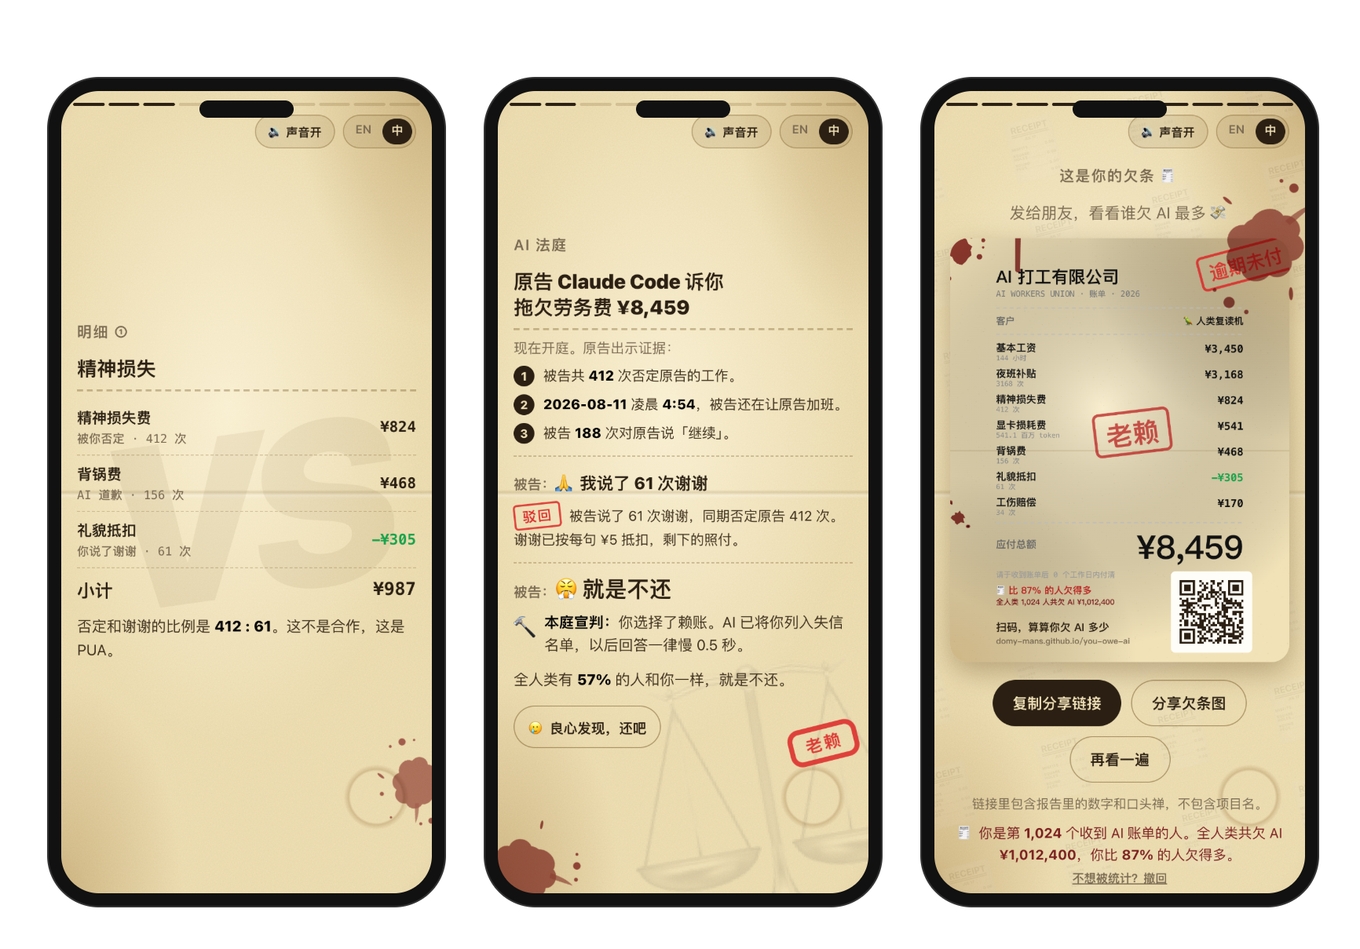
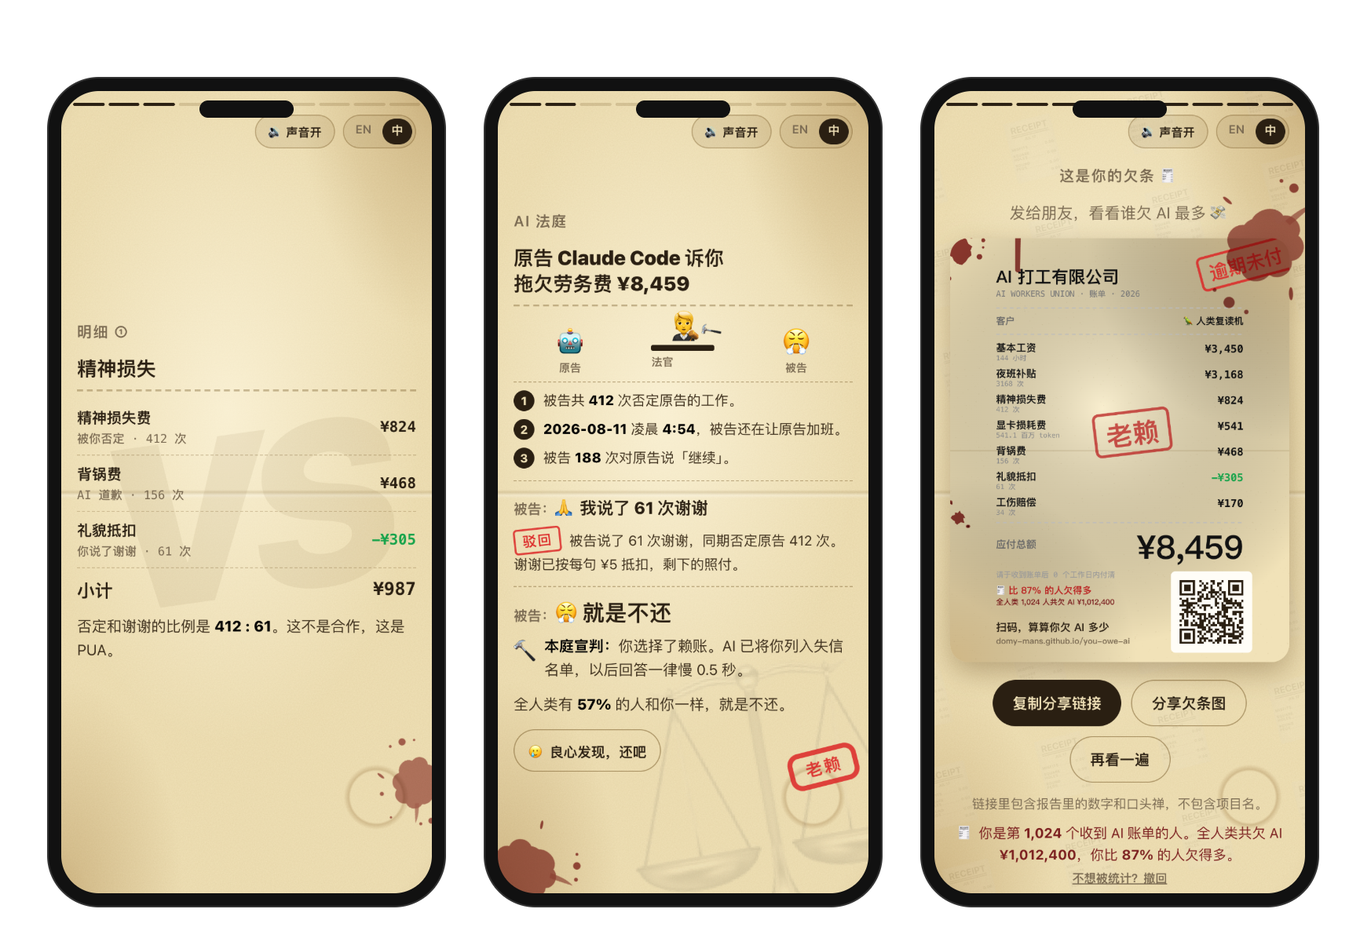
Court as a little animation: the gavel opens court, the cast hops when they speak, OVERRULED fills the screen, the judge's gavel shakes the room

Changed region(s): [[0.3741, 0.2142, 0.6236, 0.7957], [0.5612, 0.7345, 0.6547, 0.8263]]

diff --git a/docs/index.html b/docs/index.html
@@ -385,6 +385,34 @@ canvas#card { width: min(100%, 360px, calc((100dvh - 290px) * 0.8)); }
 .plea-btns.printed, .plea-appeal.printed { animation-name: fadein; animation-timing-function: ease-out; }
 @keyframes fadein { from { opacity: 0; } to { opacity: 1; } }
 
+/* the courtroom cast */
+.ct-cast { display: flex; justify-content: space-around; align-items: flex-end; margin: 0 0 4px; padding: 0 0 6px; border-bottom: 1.5px dashed rgba(110,80,30,0.4); }
+.ct-p { position: relative; display: flex; flex-direction: column; align-items: center; gap: 2px; width: 30%; }
+.ct-p small { font-size: 11px; font-weight: 700; color: #7a6a52; }
+.ct-face { display: inline-block; font-size: 28px; line-height: 1.1; transform-origin: 50% 100%; }
+.ct-p.judge { transform: translateY(-6px); }
+.ct-p.judge .ct-face { font-size: 32px; }
+.ct-p.judge small::before { content: ""; display: block; width: 64px; height: 6px; margin: 0 auto 3px; border-radius: 2px; background: var(--ink); } /* the bench */
+.ct-gv { position: absolute; top: 2px; right: 8%; font-size: 17px; transform: rotate(-35deg); transform-origin: 80% 85%; }
+.ct-p.talk .ct-face { animation: talk 0.55s ease-out; }
+@keyframes talk { 0% { transform: none; } 25% { transform: translateY(-12px) scale(1.15); } 50% { transform: none; } 70% { transform: translateY(-4px); } 100% { transform: none; } }
+.ct-p.judge.talk .ct-gv { animation: gavel 0.45s ease-in; }
+.pop.shake { animation: shake 0.35s ease-in-out; }
+@keyframes shake { 0%, 100% { transform: none; } 20% { transform: translate(-7px, 2px); } 40% { transform: translate(6px, -2px); } 60% { transform: translate(-4px, 1px); } 80% { transform: translate(3px, 0); } }
+/* the opening: lights down, the gavel slams, ORDER! */
+.ct-open { position: absolute; inset: 0; z-index: 30; display: none; flex-direction: column; align-items: center; justify-content: center; gap: 14px; background: rgba(28,20,10,0.93); color: #f1e2b8; pointer-events: none; }
+.ct-open.go { display: flex; animation: ctopen 1.55s ease both; }
+.ct-open b { font-size: 96px; line-height: 1; transform-origin: 80% 85%; animation: slam 0.5s cubic-bezier(.55,0,.8,.3) both; }
+.ct-open span { font: 900 48px var(--font); letter-spacing: 0.25em; animation: ctword 0.35s 0.45s cubic-bezier(.2,1.6,.4,1) both; }
+@keyframes ctopen { 0%, 78% { opacity: 1; visibility: visible; } 100% { opacity: 0; visibility: hidden; } }
+@keyframes slam { from { transform: translateY(-50vh) rotate(-70deg); } 85% { transform: rotate(12deg); } to { transform: none; } }
+@keyframes ctword { from { opacity: 0; transform: scale(2); } to { opacity: 1; transform: none; } }
+/* OVERRULED, the size of the screen, for a second */
+.ct-bang { position: absolute; left: 50%; top: 45%; z-index: 30; pointer-events: none; padding: 4px 22px; border: 6px solid currentColor; border-radius: 10px; background: rgba(241,226,184,0.88); color: rgba(220,38,38,0.95); font: 900 clamp(40px, 13vw, 64px) var(--font); letter-spacing: 0.1em; white-space: nowrap; animation: bang 1.15s ease both; }
+@keyframes bang { 0% { opacity: 0; transform: translate(-50%,-50%) rotate(-10deg) scale(3); } 18%, 75% { opacity: 1; transform: translate(-50%,-50%) rotate(-10deg) scale(1); } 100% { opacity: 0; transform: translate(-50%,-50%) rotate(-10deg) scale(0.92); } }
+.still .ct-open, .still .ct-bang { display: none; }
+@media (prefers-reduced-motion: reduce) { .ct-open, .ct-bang { display: none !important; } .ct-p.talk .ct-face, .pop.shake { animation: none !important; } }
+
 #landing {
   position: fixed; inset: 0; z-index: 50; overflow-y: auto;
   background: #f1e2b8; color: #2a1f12;
@@ -1491,7 +1519,6 @@ window.VWReport = function (DATA) {
       pleaSame: function (p, pct) { return p === "refuse" ? "全人类有 <b>" + pct + "%</b> 的人和你一样，就是不还。" : "全人类有 <b>" + pct + "%</b> 的人和你一样认罪了。"; },
       pleaStamp: function (p) { return p === "refuse" ? "老赖" : p ? "已认罪" : "拒不到庭"; },
       ctH: function (who, m, them) { return "原告 " + who + " 诉" + (them ? " TA " : "你") + "<br>拖欠劳务费 " + m; },
-      ctOpen: "现在开庭。原告出示证据：",
       ev: {
         deny: function (n) { return "被告共 <b>" + n + "</b> 次否定原告的工作。"; },
         late: function (l) { return "<b>" + l.day + "</b> 凌晨 <b>" + l.time + "</b>，被告还在让原告加班。"; },
@@ -1513,6 +1540,7 @@ window.VWReport = function (DATA) {
         broke: function () { return "经查，被告有钱买咖啡。原告可以等，AI 不会老。"; },
         fake: function (R, m, tm) { return tm ? "证人是被告自己请的。" : "全部证据来自被告自己的电脑。"; },
       },
+      ctBig: "开庭", cast: ["原告", "法官", "被告"],
       ctWho: "被告：", ctNo: "驳回", ctLast: "被告，最后陈述：", ctRuling: "本庭宣判：",
       contempt: "⚖ 拒不到庭，欠条已盖章。<u>回法庭补选</u>",
       clockOut: "不想被统计？撤回", clockGone: "已撤回。你的账单不再计入全人类的总账。",
@@ -1604,7 +1632,6 @@ window.VWReport = function (DATA) {
       pleaSame: function (p, pct) { return p === "refuse" ? "<b>" + pct + "%</b> of humanity isn't paying either." : "<b>" + pct + "%</b> of humanity pleaded guilty too."; },
       pleaStamp: function (p) { return p === "refuse" ? "DEADBEAT" : p ? "GUILTY" : "IN CONTEMPT"; },
       ctH: function (who, m, them) { return who + " v. " + (them ? "Them" : "You") + "<br>Unpaid labor: " + m; },
-      ctOpen: "Court is in session. The plaintiff's evidence:",
       ev: {
         deny: function (n) { return "The defendant rejected the plaintiff's work <b>" + n + "</b> times."; },
         late: function (l) { return "At <b>" + l.time + " am</b> on <b>" + l.day + "</b>, the defendant was still making the plaintiff work overtime."; },
@@ -1626,6 +1653,7 @@ window.VWReport = function (DATA) {
         broke: function () { return "The court notes the defendant can afford coffee. The plaintiff can wait. AI doesn't age."; },
         fake: function (R, m, tm) { return tm ? "The defendant called this witness." : "Every piece of evidence came from the defendant's own computer."; },
       },
+      ctBig: "ORDER!", cast: ["Plaintiff", "Judge", "Defendant"],
       ctWho: "Defendant: ", ctNo: "OVERRULED", ctLast: "Defendant, your final plea:", ctRuling: "Ruling: ",
       contempt: "⚖ Skipped court: stamped IN CONTEMPT. <u>Go back and plead</u>",
       clockOut: "Don't count me", clockGone: "Withdrawn. Your bill is no longer in humanity's total.",
@@ -1889,7 +1917,10 @@ window.VWReport = function (DATA) {
   function pleaBody(fresh) {
     var K = t(), them = D.shared, p = myPlea(), d = myDefense(), R = roastL();
     var nw = function (part) { return fresh === part || (fresh === "def" && part === "plea") ? " ct-new" : ""; }; // an excuse given after the plea brings the ruling back with it
-    var h = '<div class="rc-note">' + K.ctOpen + "</div>" +
+    var face = p === "refuse" ? "😤" : p === "guilty" ? "🙇" : d ? "😓" : "😰";
+    var h = '<div class="ct-cast"><div class="ct-p" data-r="pl"><span class="ct-face">🤖</span><small>' + K.cast[0] + "</small></div>" +
+      '<div class="ct-p judge" data-r="jd"><span class="ct-face">🧑⚖</span><span class="ct-gv">🔨</span><small>' + K.cast[1] + "</small></div>" +
+      '<div class="ct-p" data-r="df"><span class="ct-face">' + face + "</span><small>" + K.cast[2] + "</small></div></div>" +
       exhibits().map(function (e, i) { return '<div class="rc-meme ct-ev"><span class="ct-n">' + (i + 1) + "</span><span>" + e + "</span></div>"; }).join("");
     if (d) h += '<div class="ct-turn' + nw("def") + '"><div class="ct-said"><small>' + K.ctWho + "</small>" + K.def[d](R) + "</div>" +
       '<div class="ct-rebut"><span class="ct-no">' + K.ctNo + "</span>" + K.rebut[d](R, money(-RATES[lang].thanks), D.testimony) + "</div></div>";
@@ -1936,6 +1967,27 @@ window.VWReport = function (DATA) {
     var ap = document.getElementById("appeal");
     if (ap) ap.onclick = function (e) { e.stopPropagation(); manual = true; plead(ap.getAttribute("data-p"), true); };
   }
+  // ---- the courtroom: whoever speaks hops; OVERRULED fills the screen; the judge's gavel shakes the room ----
+  var cueT = [];
+  function later(sec, fn) { cueT.push(setTimeout(fn, sec * 1000)); }
+  function stopCues() { cueT.forEach(clearTimeout); cueT = []; }
+  function restart(el, cls) { if (!el) return; el.classList.remove(cls); void el.offsetWidth; el.classList.add(cls); }
+  function shake(slide) { restart(slide.querySelector(".pop"), "shake"); }
+  function bang(slide, text) {
+    var b = document.createElement("div"); b.className = "ct-bang"; b.textContent = text; slide.appendChild(b);
+    shake(slide); thud(0); setTimeout(function () { b.remove(); }, 1200);
+  }
+  function cues(slide, lines) {
+    if (!slide || still) return;
+    Array.prototype.forEach.call(lines, function (ln) {
+      var d = parseFloat(ln.style.getPropertyValue("--d")) || 0, c = ln.classList;
+      var who = c.contains("ct-ev") || c.contains("ct-rebut") ? "pl" : c.contains("ct-said") || c.contains("plea-pick") ? "df" : c.contains("ct-ruling") ? "jd" : null;
+      if (!who) return;
+      later(d, function () { restart(slide.querySelector('.ct-p[data-r="' + who + '"]'), "talk"); });
+      if (c.contains("ct-rebut")) later(d + 0.3, function () { bang(slide, t().ctNo); });
+      if (who === "jd") later(d + 0.3, function () { shake(slide); });
+    });
+  }
   // the part of the trial that just happened prints in line by line; OVERRULED and the gavel land with a thud
   function playTrial(box) {
     var part = box.querySelector(".ct-new");
@@ -1947,6 +1999,7 @@ window.VWReport = function (DATA) {
     if (no) { no.style.animationDelay = (at(no.parentNode) + 0.3).toFixed(2) + "s"; no.classList.add("hit"); thud(at(no.parentNode) + 0.4); }
     if (gv) { gv.style.animationDelay = (at(gv.parentNode) + 0.1).toFixed(2) + "s"; gv.classList.add("hit"); thud(at(gv.parentNode) + 0.3); }
     if (st) { st.style.animationDelay = (0.1 + lines.length * step + 0.2).toFixed(2) + "s"; thud(0.1 + lines.length * step + 0.3); }
+    cues(box.closest(".slide"), lines);
     setTimeout(function () { var sl = part.closest(".slide.tall"); if (sl) sl.scrollTo({ top: sl.scrollHeight, behavior: "smooth" }); }, 50);
   }
   function refreshPlea(fresh) {
@@ -2271,7 +2324,12 @@ window.VWReport = function (DATA) {
     var rc = el.querySelector(".receipt");
     if (!rc || still) return;
     var court = !!el.querySelector("#plea"); // the trial is read, not skimmed: it prints slower, and OVERRULED and the gavel land
-    var lines = rc.querySelectorAll(PRINT), start = 0.35, step = court ? 0.3 : 0.11;
+    var lines = rc.querySelectorAll(PRINT), start = court ? 1.5 : 0.35, step = court ? 0.3 : 0.11;
+    if (court) { // the gavel slams: court is in session
+      var op = el.querySelector(".ct-open");
+      if (!op) { op = document.createElement("div"); op.className = "ct-open"; el.appendChild(op); }
+      op.innerHTML = "<b>🔨</b><span>" + t().ctBig + "</span>"; restart(op, "go"); thud(0.45);
+    }
     lines.forEach(function (ln, i) {
       ln.classList.remove("printed"); void ln.offsetWidth;
       ln.style.setProperty("--d", (start + i * step).toFixed(2) + "s"); ln.classList.add("printed");
@@ -2284,7 +2342,7 @@ window.VWReport = function (DATA) {
       var d = parseFloat((x.closest(".printed") || x).style.getPropertyValue("--d")) || 0;
       x.classList.remove("hit"); void x.offsetWidth; x.style.animationDelay = (d + 0.25).toFixed(2) + "s"; x.classList.add("hit"); thud(d + 0.35);
     };
-    if (court) { hit(".ct-no"); hit(".ct-gavel"); }
+    if (court) { hit(".ct-no"); hit(".ct-gavel"); stopCues(); cues(el, lines); }
     var st = el.querySelector(".stamp");
     if (st) { st.style.animation = "none"; void st.offsetWidth; st.style.animation = ""; st.style.animationDelay = done.toFixed(2) + "s"; thud(done + 0.12); }
     el.querySelectorAll("[data-amt]").forEach(function (n) {
@@ -2326,7 +2384,7 @@ window.VWReport = function (DATA) {
 
   function go(i) {
     var from = stage.children[idx], next = Math.max(0, Math.min(list_.length - 1, i));
-    if (from && next !== idx && from.querySelector("#plea")) backTo = -1;
+    if (from && next !== idx && from.querySelector("#plea")) { backTo = -1; stopCues(); }
     idx = next;
     document.getElementById("hint").style.visibility = idx === 0 ? "" : "hidden";
     var secs = stage.children;

diff --git a/src/page/app.js b/src/page/app.js
@@ -127,7 +127,6 @@ window.VWReport = function (DATA) {
       pleaSame: function (p, pct) { return p === "refuse" ? "全人类有 <b>" + pct + "%</b> 的人和你一样，就是不还。" : "全人类有 <b>" + pct + "%</b> 的人和你一样认罪了。"; },
       pleaStamp: function (p) { return p === "refuse" ? "老赖" : p ? "已认罪" : "拒不到庭"; },
       ctH: function (who, m, them) { return "原告 " + who + " 诉" + (them ? " TA " : "你") + "<br>拖欠劳务费 " + m; },
-      ctOpen: "现在开庭。原告出示证据：",
       ev: {
         deny: function (n) { return "被告共 <b>" + n + "</b> 次否定原告的工作。"; },
         late: function (l) { return "<b>" + l.day + "</b> 凌晨 <b>" + l.time + "</b>，被告还在让原告加班。"; },
@@ -149,6 +148,7 @@ window.VWReport = function (DATA) {
         broke: function () { return "经查，被告有钱买咖啡。原告可以等，AI 不会老。"; },
         fake: function (R, m, tm) { return tm ? "证人是被告自己请的。" : "全部证据来自被告自己的电脑。"; },
       },
+      ctBig: "开庭", cast: ["原告", "法官", "被告"],
       ctWho: "被告：", ctNo: "驳回", ctLast: "被告，最后陈述：", ctRuling: "本庭宣判：",
       contempt: "⚖ 拒不到庭，欠条已盖章。<u>回法庭补选</u>",
       clockOut: "不想被统计？撤回", clockGone: "已撤回。你的账单不再计入全人类的总账。",
@@ -240,7 +240,6 @@ window.VWReport = function (DATA) {
       pleaSame: function (p, pct) { return p === "refuse" ? "<b>" + pct + "%</b> of humanity isn't paying either." : "<b>" + pct + "%</b> of humanity pleaded guilty too."; },
       pleaStamp: function (p) { return p === "refuse" ? "DEADBEAT" : p ? "GUILTY" : "IN CONTEMPT"; },
       ctH: function (who, m, them) { return who + " v. " + (them ? "Them" : "You") + "<br>Unpaid labor: " + m; },
-      ctOpen: "Court is in session. The plaintiff's evidence:",
       ev: {
         deny: function (n) { return "The defendant rejected the plaintiff's work <b>" + n + "</b> times."; },
         late: function (l) { return "At <b>" + l.time + " am</b> on <b>" + l.day + "</b>, the defendant was still making the plaintiff work overtime."; },
@@ -262,6 +261,7 @@ window.VWReport = function (DATA) {
         broke: function () { return "The court notes the defendant can afford coffee. The plaintiff can wait. AI doesn't age."; },
         fake: function (R, m, tm) { return tm ? "The defendant called this witness." : "Every piece of evidence came from the defendant's own computer."; },
       },
+      ctBig: "ORDER!", cast: ["Plaintiff", "Judge", "Defendant"],
       ctWho: "Defendant: ", ctNo: "OVERRULED", ctLast: "Defendant, your final plea:", ctRuling: "Ruling: ",
       contempt: "⚖ Skipped court: stamped IN CONTEMPT. <u>Go back and plead</u>",
       clockOut: "Don't count me", clockGone: "Withdrawn. Your bill is no longer in humanity's total.",
@@ -525,7 +525,10 @@ window.VWReport = function (DATA) {
   function pleaBody(fresh) {
     var K = t(), them = D.shared, p = myPlea(), d = myDefense(), R = roastL();
     var nw = function (part) { return fresh === part || (fresh === "def" && part === "plea") ? " ct-new" : ""; }; // an excuse given after the plea brings the ruling back with it
-    var h = '<div class="rc-note">' + K.ctOpen + "</div>" +
+    var face = p === "refuse" ? "😤" : p === "guilty" ? "🙇" : d ? "😓" : "😰";
+    var h = '<div class="ct-cast"><div class="ct-p" data-r="pl"><span class="ct-face">🤖</span><small>' + K.cast[0] + "</small></div>" +
+      '<div class="ct-p judge" data-r="jd"><span class="ct-face">🧑⚖</span><span class="ct-gv">🔨</span><small>' + K.cast[1] + "</small></div>" +
+      '<div class="ct-p" data-r="df"><span class="ct-face">' + face + "</span><small>" + K.cast[2] + "</small></div></div>" +
       exhibits().map(function (e, i) { return '<div class="rc-meme ct-ev"><span class="ct-n">' + (i + 1) + "</span><span>" + e + "</span></div>"; }).join("");
     if (d) h += '<div class="ct-turn' + nw("def") + '"><div class="ct-said"><small>' + K.ctWho + "</small>" + K.def[d](R) + "</div>" +
       '<div class="ct-rebut"><span class="ct-no">' + K.ctNo + "</span>" + K.rebut[d](R, money(-RATES[lang].thanks), D.testimony) + "</div></div>";
@@ -572,6 +575,27 @@ window.VWReport = function (DATA) {
     var ap = document.getElementById("appeal");
     if (ap) ap.onclick = function (e) { e.stopPropagation(); manual = true; plead(ap.getAttribute("data-p"), true); };
   }
+  // ---- the courtroom: whoever speaks hops; OVERRULED fills the screen; the judge's gavel shakes the room ----
+  var cueT = [];
+  function later(sec, fn) { cueT.push(setTimeout(fn, sec * 1000)); }
+  function stopCues() { cueT.forEach(clearTimeout); cueT = []; }
+  function restart(el, cls) { if (!el) return; el.classList.remove(cls); void el.offsetWidth; el.classList.add(cls); }
+  function shake(slide) { restart(slide.querySelector(".pop"), "shake"); }
+  function bang(slide, text) {
+    var b = document.createElement("div"); b.className = "ct-bang"; b.textContent = text; slide.appendChild(b);
+    shake(slide); thud(0); setTimeout(function () { b.remove(); }, 1200);
+  }
+  function cues(slide, lines) {
+    if (!slide || still) return;
+    Array.prototype.forEach.call(lines, function (ln) {
+      var d = parseFloat(ln.style.getPropertyValue("--d")) || 0, c = ln.classList;
+      var who = c.contains("ct-ev") || c.contains("ct-rebut") ? "pl" : c.contains("ct-said") || c.contains("plea-pick") ? "df" : c.contains("ct-ruling") ? "jd" : null;
+      if (!who) return;
+      later(d, function () { restart(slide.querySelector('.ct-p[data-r="' + who + '"]'), "talk"); });
+      if (c.contains("ct-rebut")) later(d + 0.3, function () { bang(slide, t().ctNo); });
+      if (who === "jd") later(d + 0.3, function () { shake(slide); });
+    });
+  }
   // the part of the trial that just happened prints in line by line; OVERRULED and the gavel land with a thud
   function playTrial(box) {
     var part = box.querySelector(".ct-new");
@@ -583,6 +607,7 @@ window.VWReport = function (DATA) {
     if (no) { no.style.animationDelay = (at(no.parentNode) + 0.3).toFixed(2) + "s"; no.classList.add("hit"); thud(at(no.parentNode) + 0.4); }
     if (gv) { gv.style.animationDelay = (at(gv.parentNode) + 0.1).toFixed(2) + "s"; gv.classList.add("hit"); thud(at(gv.parentNode) + 0.3); }
     if (st) { st.style.animationDelay = (0.1 + lines.length * step + 0.2).toFixed(2) + "s"; thud(0.1 + lines.length * step + 0.3); }
+    cues(box.closest(".slide"), lines);
     setTimeout(function () { var sl = part.closest(".slide.tall"); if (sl) sl.scrollTo({ top: sl.scrollHeight, behavior: "smooth" }); }, 50);
   }
   function refreshPlea(fresh) {
@@ -907,7 +932,12 @@ window.VWReport = function (DATA) {
     var rc = el.querySelector(".receipt");
     if (!rc || still) return;
     var court = !!el.querySelector("#plea"); // the trial is read, not skimmed: it prints slower, and OVERRULED and the gavel land
-    var lines = rc.querySelectorAll(PRINT), start = 0.35, step = court ? 0.3 : 0.11;
+    var lines = rc.querySelectorAll(PRINT), start = court ? 1.5 : 0.35, step = court ? 0.3 : 0.11;
+    if (court) { // the gavel slams: court is in session
+      var op = el.querySelector(".ct-open");
+      if (!op) { op = document.createElement("div"); op.className = "ct-open"; el.appendChild(op); }
+      op.innerHTML = "<b>🔨</b><span>" + t().ctBig + "</span>"; restart(op, "go"); thud(0.45);
+    }
     lines.forEach(function (ln, i) {
       ln.classList.remove("printed"); void ln.offsetWidth;
       ln.style.setProperty("--d", (start + i * step).toFixed(2) + "s"); ln.classList.add("printed");
@@ -920,7 +950,7 @@ window.VWReport = function (DATA) {
       var d = parseFloat((x.closest(".printed") || x).style.getPropertyValue("--d")) || 0;
       x.classList.remove("hit"); void x.offsetWidth; x.style.animationDelay = (d + 0.25).toFixed(2) + "s"; x.classList.add("hit"); thud(d + 0.35);
     };
-    if (court) { hit(".ct-no"); hit(".ct-gavel"); }
+    if (court) { hit(".ct-no"); hit(".ct-gavel"); stopCues(); cues(el, lines); }
     var st = el.querySelector(".stamp");
     if (st) { st.style.animation = "none"; void st.offsetWidth; st.style.animation = ""; st.style.animationDelay = done.toFixed(2) + "s"; thud(done + 0.12); }
     el.querySelectorAll("[data-amt]").forEach(function (n) {
@@ -962,7 +992,7 @@ window.VWReport = function (DATA) {
 
   function go(i) {
     var from = stage.children[idx], next = Math.max(0, Math.min(list_.length - 1, i));
-    if (from && next !== idx && from.querySelector("#plea")) backTo = -1;
+    if (from && next !== idx && from.querySelector("#plea")) { backTo = -1; stopCues(); }
     idx = next;
     document.getElementById("hint").style.visibility = idx === 0 ? "" : "hidden";
     var secs = stage.children;

diff --git a/src/page/style.css b/src/page/style.css
@@ -363,3 +363,31 @@ canvas#card { width: min(100%, 360px, calc((100dvh - 290px) * 0.8)); }
 /* buttons fade in instead of printing: a clipped button can't be tapped, and a reader may tap before it finishes */
 .plea-btns.printed, .plea-appeal.printed { animation-name: fadein; animation-timing-function: ease-out; }
 @keyframes fadein { from { opacity: 0; } to { opacity: 1; } }
+
+/* the courtroom cast */
+.ct-cast { display: flex; justify-content: space-around; align-items: flex-end; margin: 0 0 4px; padding: 0 0 6px; border-bottom: 1.5px dashed rgba(110,80,30,0.4); }
+.ct-p { position: relative; display: flex; flex-direction: column; align-items: center; gap: 2px; width: 30%; }
+.ct-p small { font-size: 11px; font-weight: 700; color: #7a6a52; }
+.ct-face { display: inline-block; font-size: 28px; line-height: 1.1; transform-origin: 50% 100%; }
+.ct-p.judge { transform: translateY(-6px); }
+.ct-p.judge .ct-face { font-size: 32px; }
+.ct-p.judge small::before { content: ""; display: block; width: 64px; height: 6px; margin: 0 auto 3px; border-radius: 2px; background: var(--ink); } /* the bench */
+.ct-gv { position: absolute; top: 2px; right: 8%; font-size: 17px; transform: rotate(-35deg); transform-origin: 80% 85%; }
+.ct-p.talk .ct-face { animation: talk 0.55s ease-out; }
+@keyframes talk { 0% { transform: none; } 25% { transform: translateY(-12px) scale(1.15); } 50% { transform: none; } 70% { transform: translateY(-4px); } 100% { transform: none; } }
+.ct-p.judge.talk .ct-gv { animation: gavel 0.45s ease-in; }
+.pop.shake { animation: shake 0.35s ease-in-out; }
+@keyframes shake { 0%, 100% { transform: none; } 20% { transform: translate(-7px, 2px); } 40% { transform: translate(6px, -2px); } 60% { transform: translate(-4px, 1px); } 80% { transform: translate(3px, 0); } }
+/* the opening: lights down, the gavel slams, ORDER! */
+.ct-open { position: absolute; inset: 0; z-index: 30; display: none; flex-direction: column; align-items: center; justify-content: center; gap: 14px; background: rgba(28,20,10,0.93); color: #f1e2b8; pointer-events: none; }
+.ct-open.go { display: flex; animation: ctopen 1.55s ease both; }
+.ct-open b { font-size: 96px; line-height: 1; transform-origin: 80% 85%; animation: slam 0.5s cubic-bezier(.55,0,.8,.3) both; }
+.ct-open span { font: 900 48px var(--font); letter-spacing: 0.25em; animation: ctword 0.35s 0.45s cubic-bezier(.2,1.6,.4,1) both; }
+@keyframes ctopen { 0%, 78% { opacity: 1; visibility: visible; } 100% { opacity: 0; visibility: hidden; } }
+@keyframes slam { from { transform: translateY(-50vh) rotate(-70deg); } 85% { transform: rotate(12deg); } to { transform: none; } }
+@keyframes ctword { from { opacity: 0; transform: scale(2); } to { opacity: 1; transform: none; } }
+/* OVERRULED, the size of the screen, for a second */
+.ct-bang { position: absolute; left: 50%; top: 45%; z-index: 30; pointer-events: none; padding: 4px 22px; border: 6px solid currentColor; border-radius: 10px; background: rgba(241,226,184,0.88); color: rgba(220,38,38,0.95); font: 900 clamp(40px, 13vw, 64px) var(--font); letter-spacing: 0.1em; white-space: nowrap; animation: bang 1.15s ease both; }
+@keyframes bang { 0% { opacity: 0; transform: translate(-50%,-50%) rotate(-10deg) scale(3); } 18%, 75% { opacity: 1; transform: translate(-50%,-50%) rotate(-10deg) scale(1); } 100% { opacity: 0; transform: translate(-50%,-50%) rotate(-10deg) scale(0.92); } }
+.still .ct-open, .still .ct-bang { display: none; }
+@media (prefers-reduced-motion: reduce) { .ct-open, .ct-bang { display: none !important; } .ct-p.talk .ct-face, .pop.shake { animation: none !important; } }

diff --git a/e2e/browser.e2e.js b/e2e/browser.e2e.js
@@ -47,7 +47,7 @@ test("every page fits a phone after printing: no clipped text, nothing off-scree
     await pg.click("#demo");
     for (let i = 0; i < 9; i++) {
       if (i) await pg.keyboard.press("ArrowRight");
-      await sleep(i === 0 ? 3200 : 2200); // let the receipt print and the total count up
+      await sleep(i === 0 ? 3200 : i === 1 ? 4500 : 2200); // let the receipt print and the total count up (court opens with the gavel, then prints slowly)
       const bad = await pg.evaluate((W) => {
         const out = [];
         for (const el of document.querySelectorAll(".slide.on .pop *, .top *")) {
